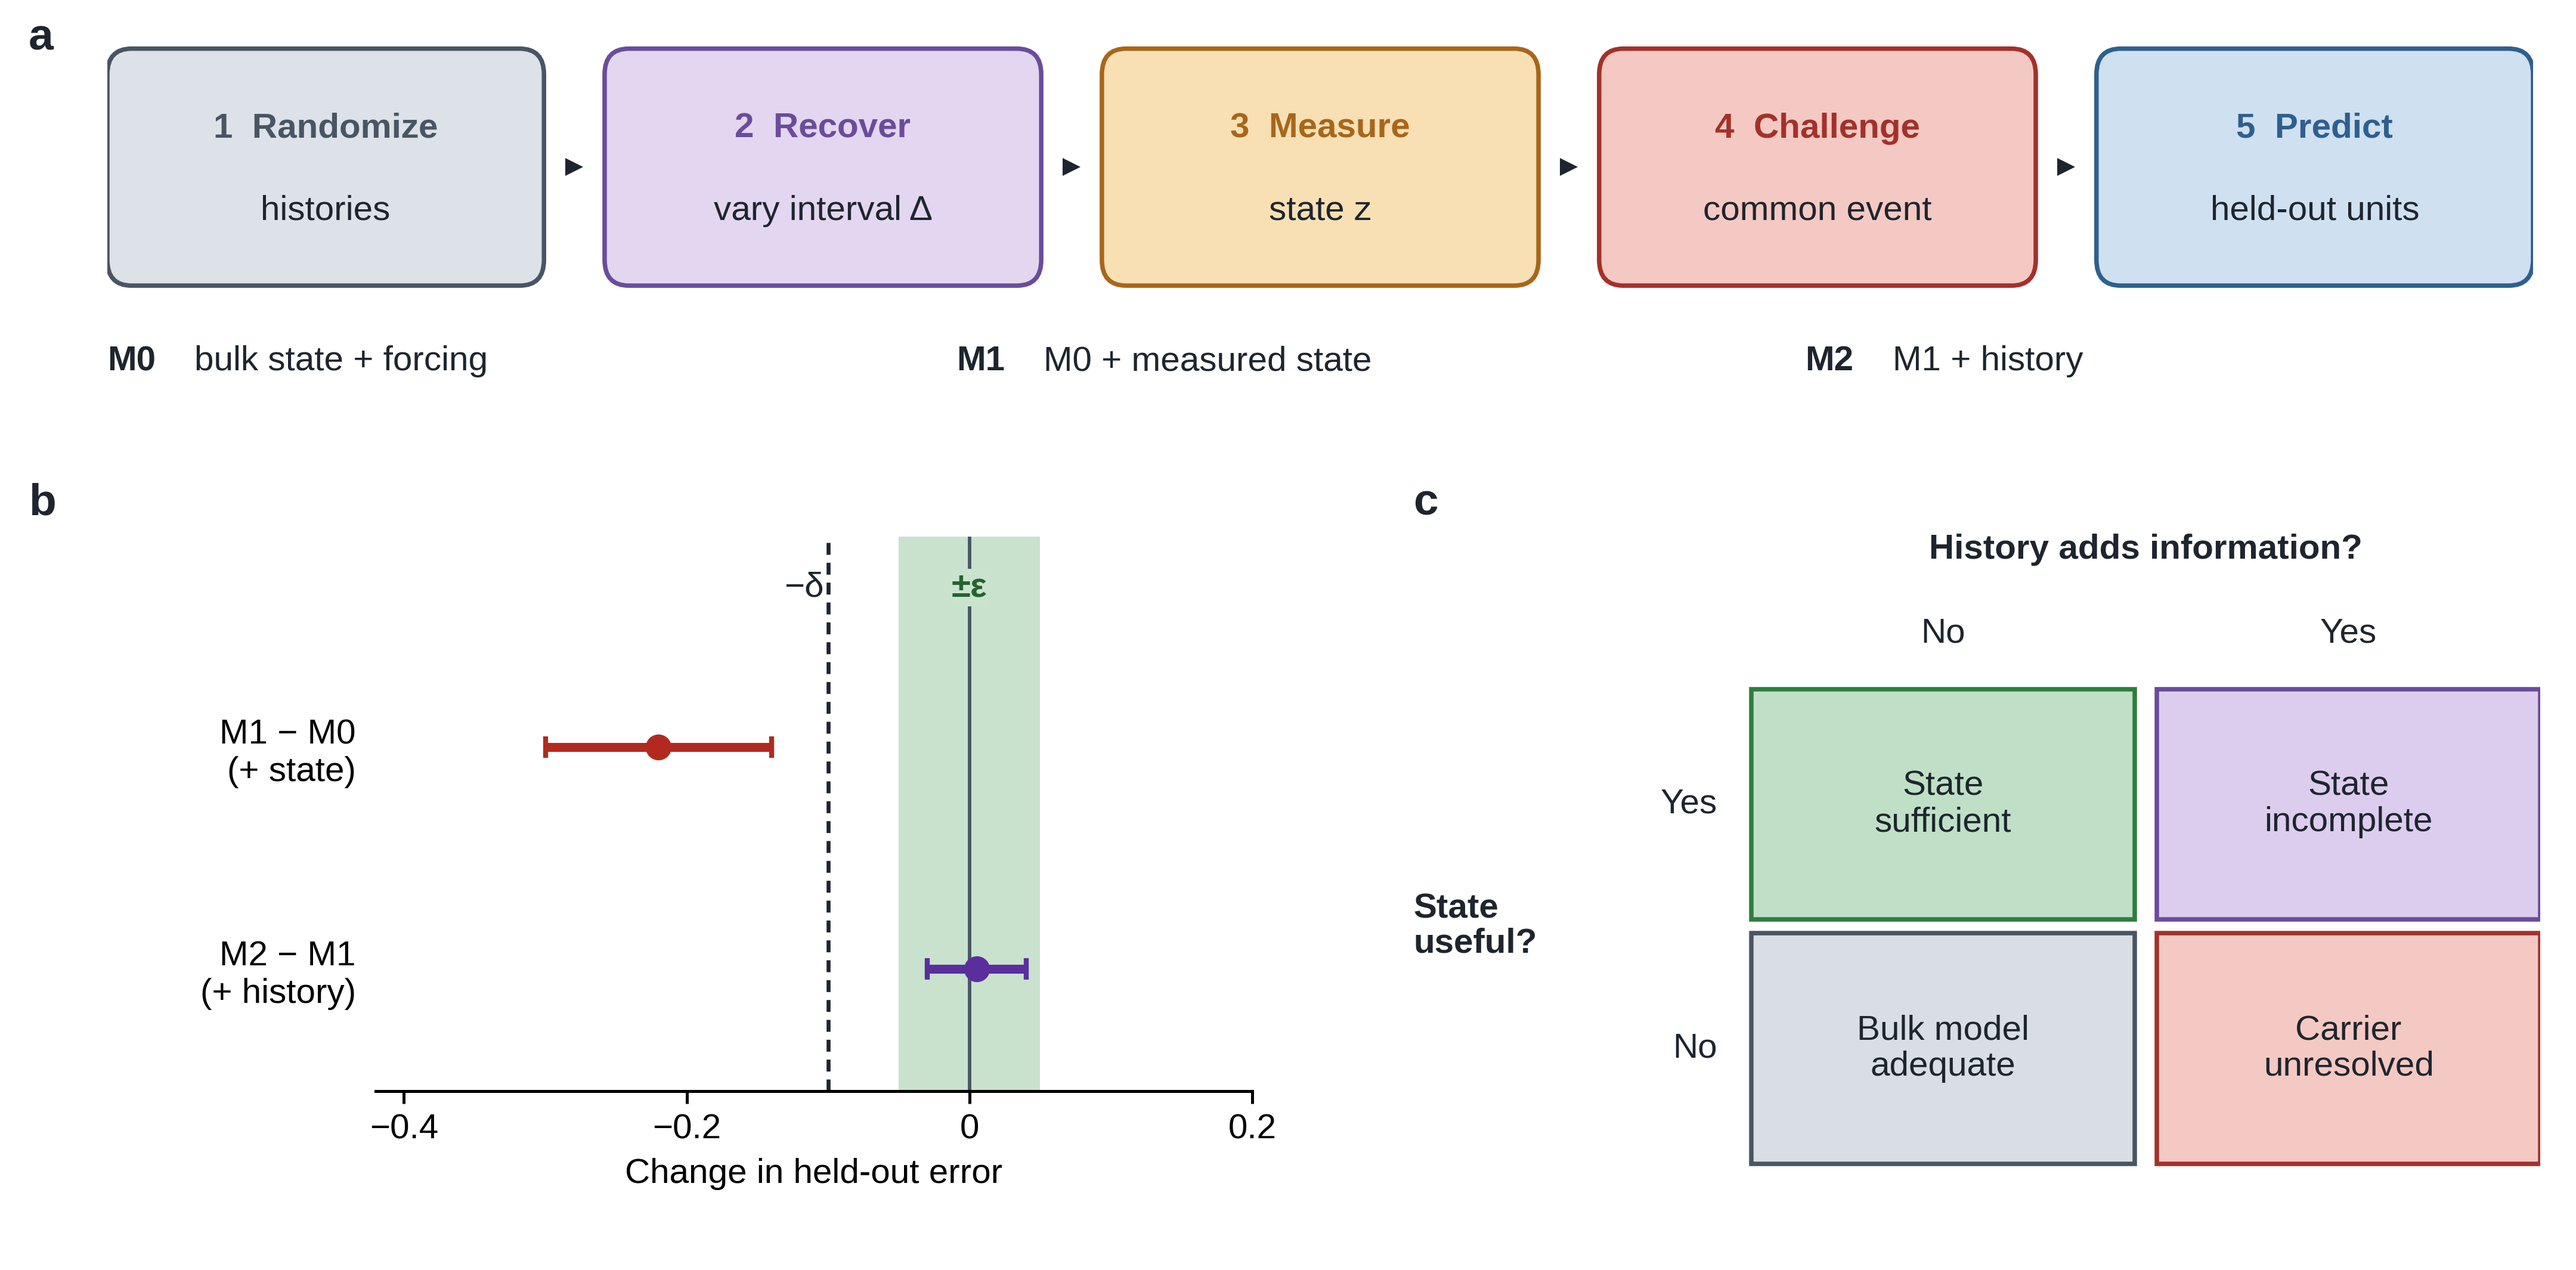
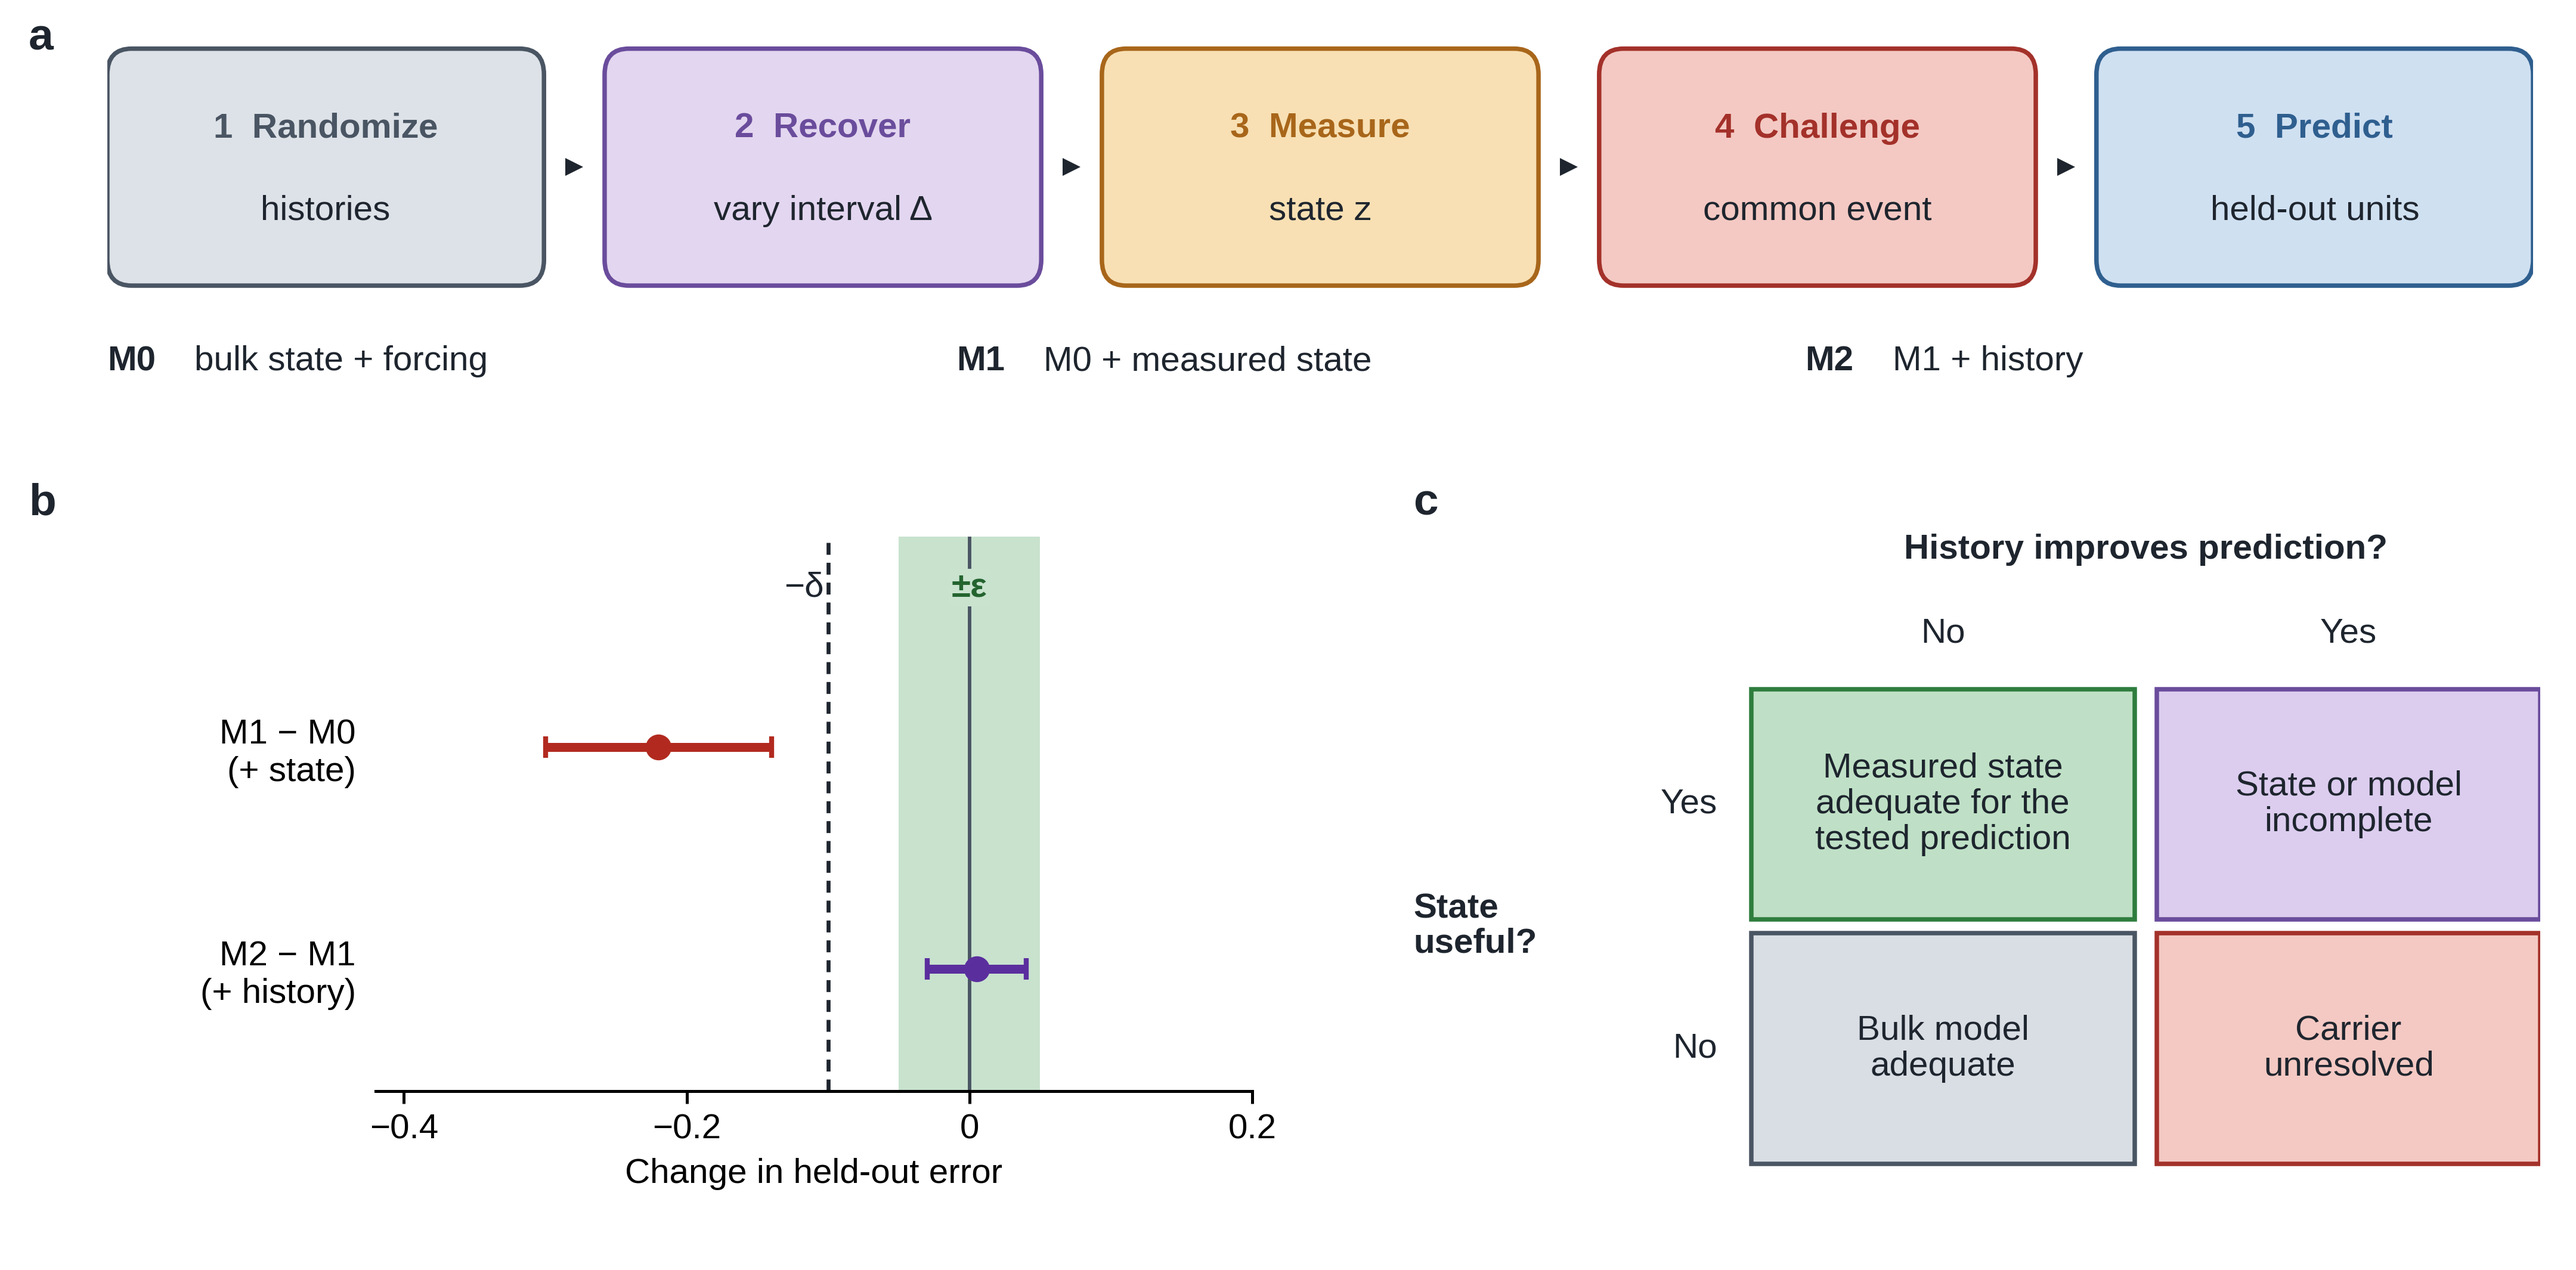
ok

Changed region(s): [[0.75, 0.4028, 0.9375, 0.4648], [0.6875, 0.5887, 0.8125, 0.6817], [0.875, 0.5887, 0.9375, 0.6507]]

diff --git a/python/fig6_test.py b/python/fig6_test.py
@@ -45,12 +45,12 @@ ax.set_xlabel("Change in held-out error")
 L(3.95, 1.35, "c")
 ax = fig.add_axes([3.95 / FW, (FH - 3.35) / FH, 3.15 / FW, 1.95 / FH]); ax.set_axis_off(); ax.set_xlim(0, 1); ax.set_ylim(0, 1)
 x0, yb, cw, ch, g = 0.30, 0.05, 0.34, 0.33, 0.02
-cells = [(0, 1, "State\nsufficient", ("#BFE0C6", "#2E7D3E")), (1, 1, "State\nincomplete", ("#DCCDEF", "#6A4C9C")),
+cells = [(0, 1, "Measured state\nadequate for the\ntested prediction", ("#BFE0C6", "#2E7D3E")), (1, 1, "State or model\nincomplete", ("#DCCDEF", "#6A4C9C")),
          (0, 0, "Bulk model\nadequate", ("#D9DEE4", "#4A5563")), (1, 0, "Carrier\nunresolved", ("#F4C9C3", "#A3312A"))]
 for cx, cy, txt, (fc, ec) in cells:
     X = x0 + cx * (cw + g); Y = yb + cy * (ch + g)
     ax.add_patch(Rectangle((X, Y), cw, ch, fc=fc, ec=ec, lw=0.9)); ax.text(X + cw / 2, Y + ch / 2, txt, ha="center", va="center", linespacing=1.15, color=INK)
-ax.text(x0 + cw + g / 2, 0.93, "History adds information?", ha="center", va="center", fontweight="bold", color=INK)
+ax.text(x0 + cw + g / 2, 0.93, "History improves prediction?", ha="center", va="center", fontweight="bold", color=INK)
 ax.text(x0 + cw / 2, 0.81, "No", ha="center", va="center", color=INK); ax.text(x0 + 1.5 * cw + g, 0.81, "Yes", ha="center", va="center", color=INK)
 ax.text(0.0, yb + ch + g / 2, "State\nuseful?", ha="left", va="center", fontweight="bold", color=INK, linespacing=1.1)
 ax.text(x0 - 0.03, yb + 1.5 * ch + g, "Yes", ha="right", va="center", color=INK)

diff --git a/python/la_integral_audit.py b/python/la_integral_audit.py
@@ -19,4 +19,4 @@ lo, hi = 24.0, 70.0
 for _ in range(80):
     mid = (lo + hi) / 2
     lo, hi = (mid, hi) if np.mean([integral(q, mid) for q in la]) < 134 else (lo, mid)
-print(f"LA mean equals 134 when integrated to {mid:.1f} h; common-window (1-24 h) values use only observations within 1-24 h and are unaffected.")
+print(f"LA mean equals 134 when integrated to {mid:.1f} h; a difference confined to the endpoint after 24 h would not alter the separately calculated 1-24 h integrals.")

diff --git a/README.md b/README.md
@@ -1,14 +1,6 @@
 # Out-of-step recovery and redox resilience in soils
 
-[![Perspective](https://img.shields.io/badge/Article-Perspective-81619D?style=flat-square)](#out-of-step-recovery-and-redox-resilience-in-soils)
-[![Soil redox resilience](https://img.shields.io/badge/Topic-Soil%20redox%20resilience-397F89?style=flat-square)](#out-of-step-recovery-and-redox-resilience-in-soils)
-[![Python](https://img.shields.io/badge/Python-3.10%2B-3776AB?style=flat-square&logo=python&logoColor=white)](#reproduce)
-[![R](https://img.shields.io/badge/R-Base%20R-276DC3?style=flat-square&logo=r&logoColor=white)](#reproduce)
-[![Code license](https://img.shields.io/badge/Code-MIT-8FBC8F?style=flat-square)](#licence)
-[![Data licenses](https://img.shields.io/badge/Data-Source%20licenses-lightgrey?style=flat-square)](#source-data-and-reuse)
-
-
-Code and data for the Perspective by M. Ghotbi, B. C. Kolody, M. Ghotbi and E. Holtgrewe-Stukenbrock  
+Release v1.0 is the version used for the submitted manuscript. Code and data for the Perspective by M. Ghotbi, B. C. Kolody, M. Ghotbi, J. A. Gilbert and E. Holtgrewe-Stukenbrock (submitted to *Nature Communications*).
 
 The repository reproduces every quantitative figure and every number quoted in the text:
 
@@ -64,7 +56,7 @@ No new measurements are reported. The source workbooks are third-party data from
 - Patzner, M. S. et al. Iron mineral dissolution releases iron and associated organic carbon during permafrost thaw. *Nat. Commun.* 11, 6329 (2020). https://doi.org/10.1038/s41467-020-20102-6
 - Sennett, L. B. et al. Determining how oxygen legacy affects trajectories of soil denitrifier community dynamics and N₂O emissions. *Nat. Commun.* 15, 7298 (2024). https://doi.org/10.1038/s41467-024-51688-w
 
-One complete-record integral (long-anoxic history, Sennett et al.) differs from the value in the source article; integrating the LA records to 42.0 h reproduces the published value (`python/la_integral_audit.py`), but the source does not state its integration bounds, so the discrepancy is unresolved; it cannot affect the common-window (1–24 h) values and is documented in Supplementary Note 2 and `data/sennett_integration_definition_comparison.csv`.
+One complete-record integral (long-anoxic history, Sennett et al.) differs from the value in the source article; integrating the LA records to 42.0 h reproduces the published value (`python/la_integral_audit.py`), but the source does not state its integration bounds, so the discrepancy is unresolved. A difference confined to the integration endpoint after 24 h would not alter the separately calculated 1–24 h integrals. The discrepancy is documented in Supplementary Note 2 and `data/sennett_integration_definition_comparison.csv`.
 
 ## Licence
 
